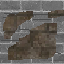
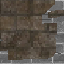
敵ダメージフラッシュを画像の非透明部分のみに合成し、床タイルへの色漏れを修正

Changed region(s): [[0.0, 0.0, 0.875, 0.8125]]

diff --git a/components/sprites/enemy.py b/components/sprites/enemy.py
@@ -145,9 +145,16 @@ class Enemy(Entity):
                 if self.damage_flash_timer > HIT_STUN_DURATION:
                     color = getattr(self, "flash_color", (255, 255, 255))
                     if color and color != (255, 255, 255):
+                        # オーバーレイを敵画像の非透明部分のみに合成（床のタイルには影響しない）
+                        flashed = cur.copy()
                         overlay = pygame.Surface(cur.get_size(), pygame.SRCALPHA)
                         overlay.fill(color + (80,))
-                        screen.blit(overlay, (draw_x, draw_y), special_flags=pygame.BLEND_ADD)
+                        mask = pygame.mask.from_surface(cur)
+                        if mask.count() > 0:
+                            mask_surf = mask.to_surface(setcolor=(255, 255, 255, 255), unsetcolor=(0, 0, 0, 0))
+                            overlay.blit(mask_surf, (0, 0), special_flags=pygame.BLEND_RGBA_MULT)
+                        flashed.blit(overlay, (0, 0), special_flags=pygame.BLEND_ADD)
+                        screen.blit(flashed, (draw_x, draw_y))
 
     def _move_randomly(self, dungeon, all_entities):
         d = random.choice([("right", dungeon.tile_size, 0), ("left", -dungeon.tile_size, 0), ("down", 0, dungeon.tile_size), ("up", 0, -dungeon.tile_size)])
